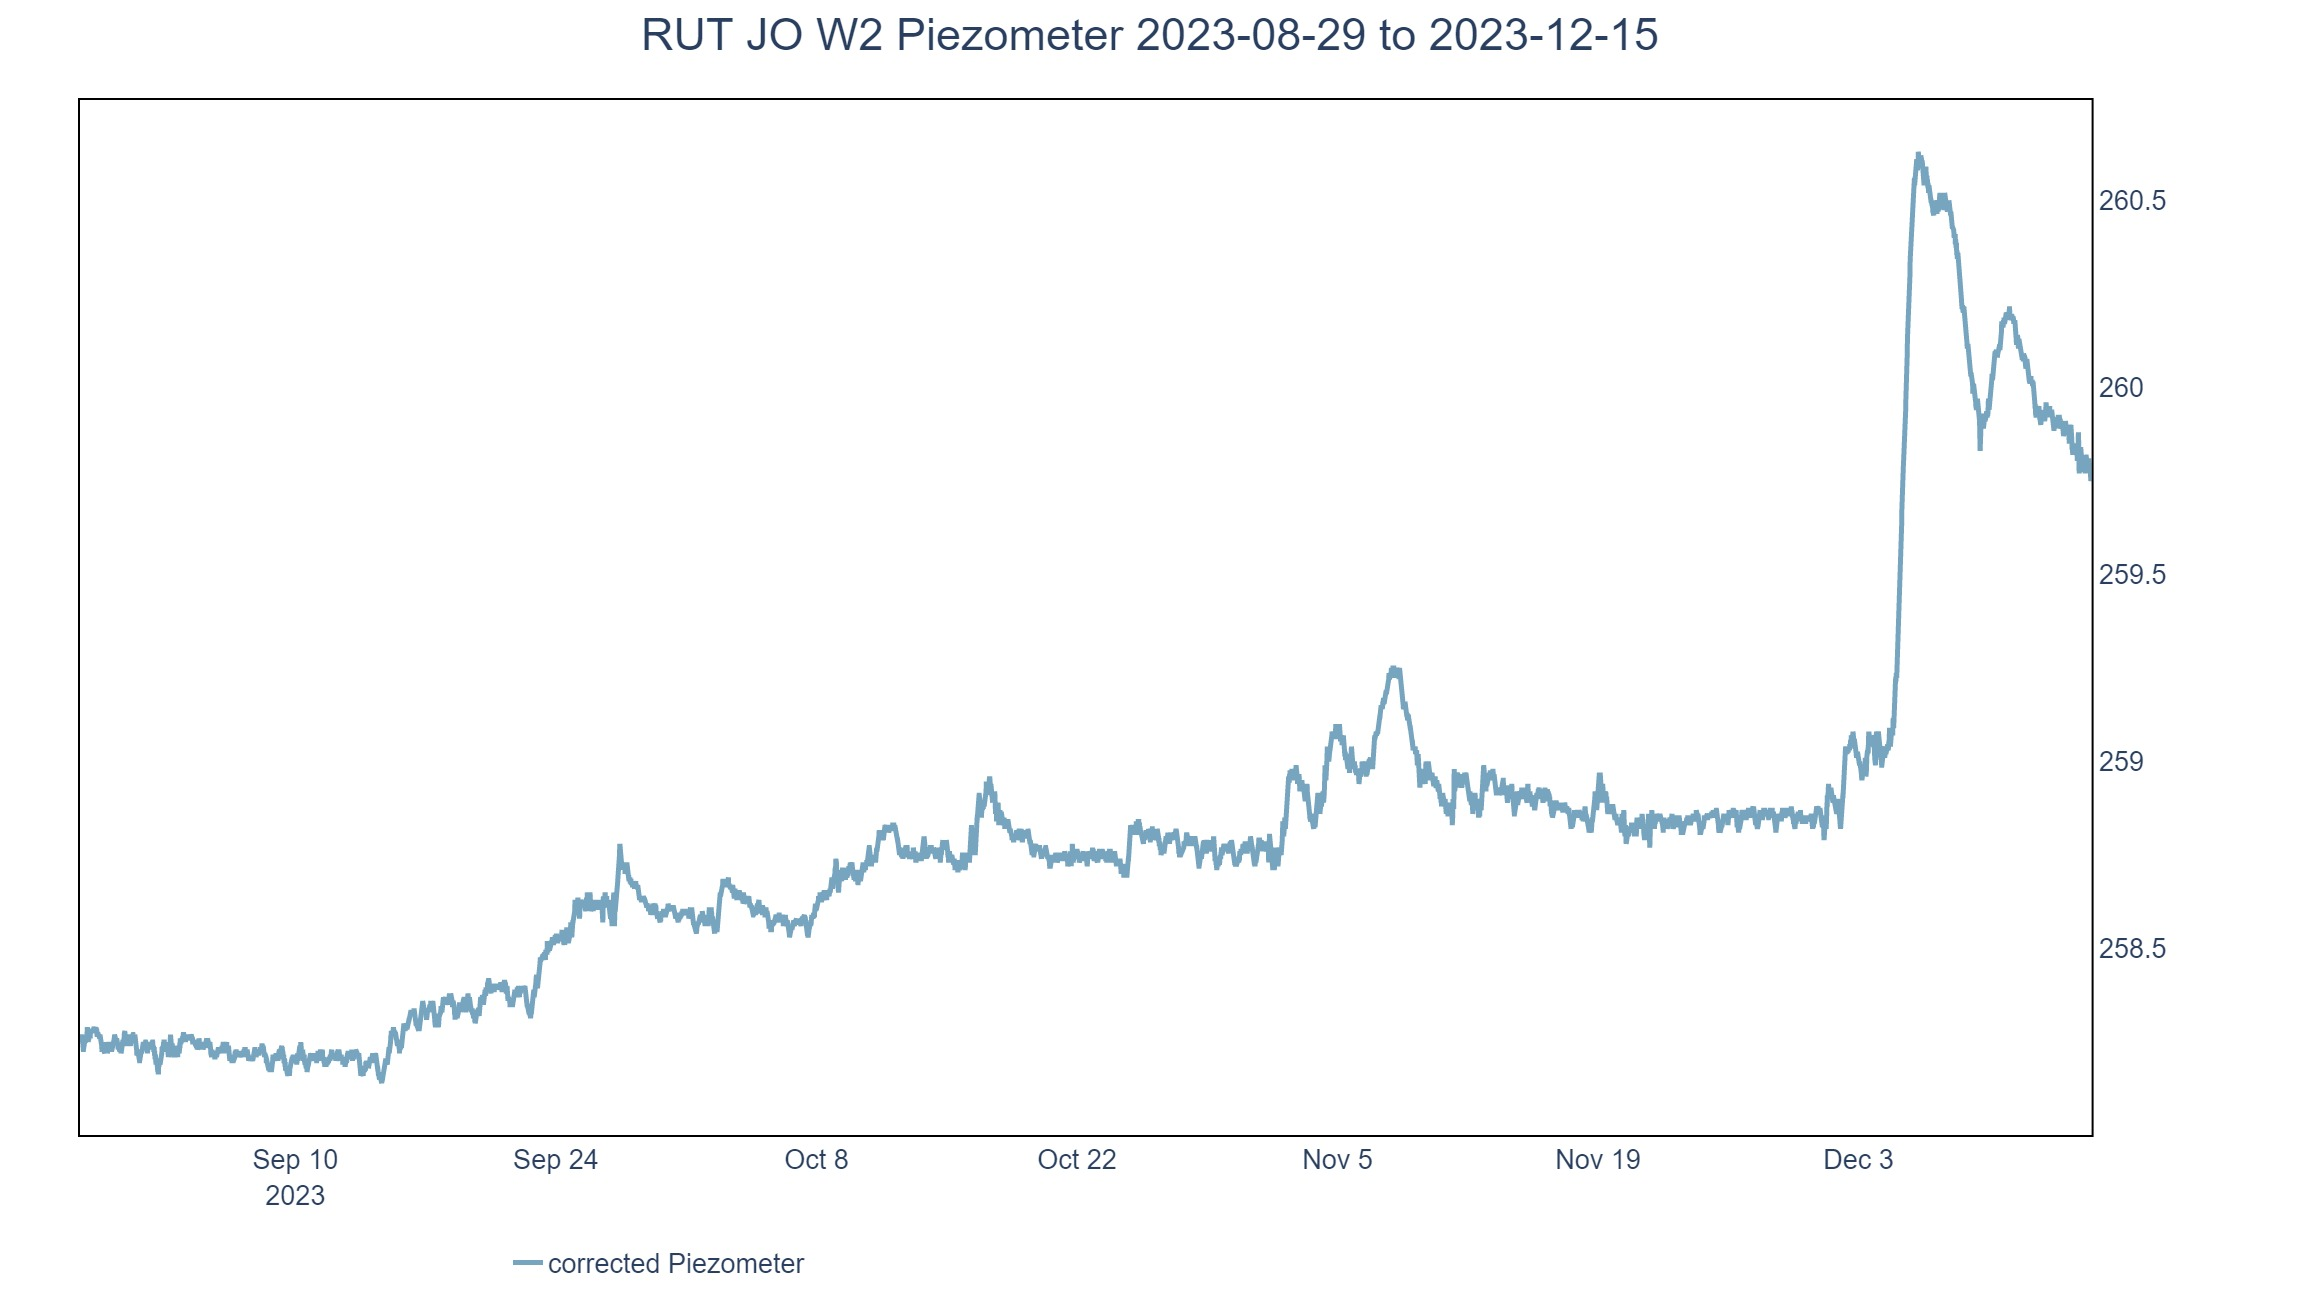
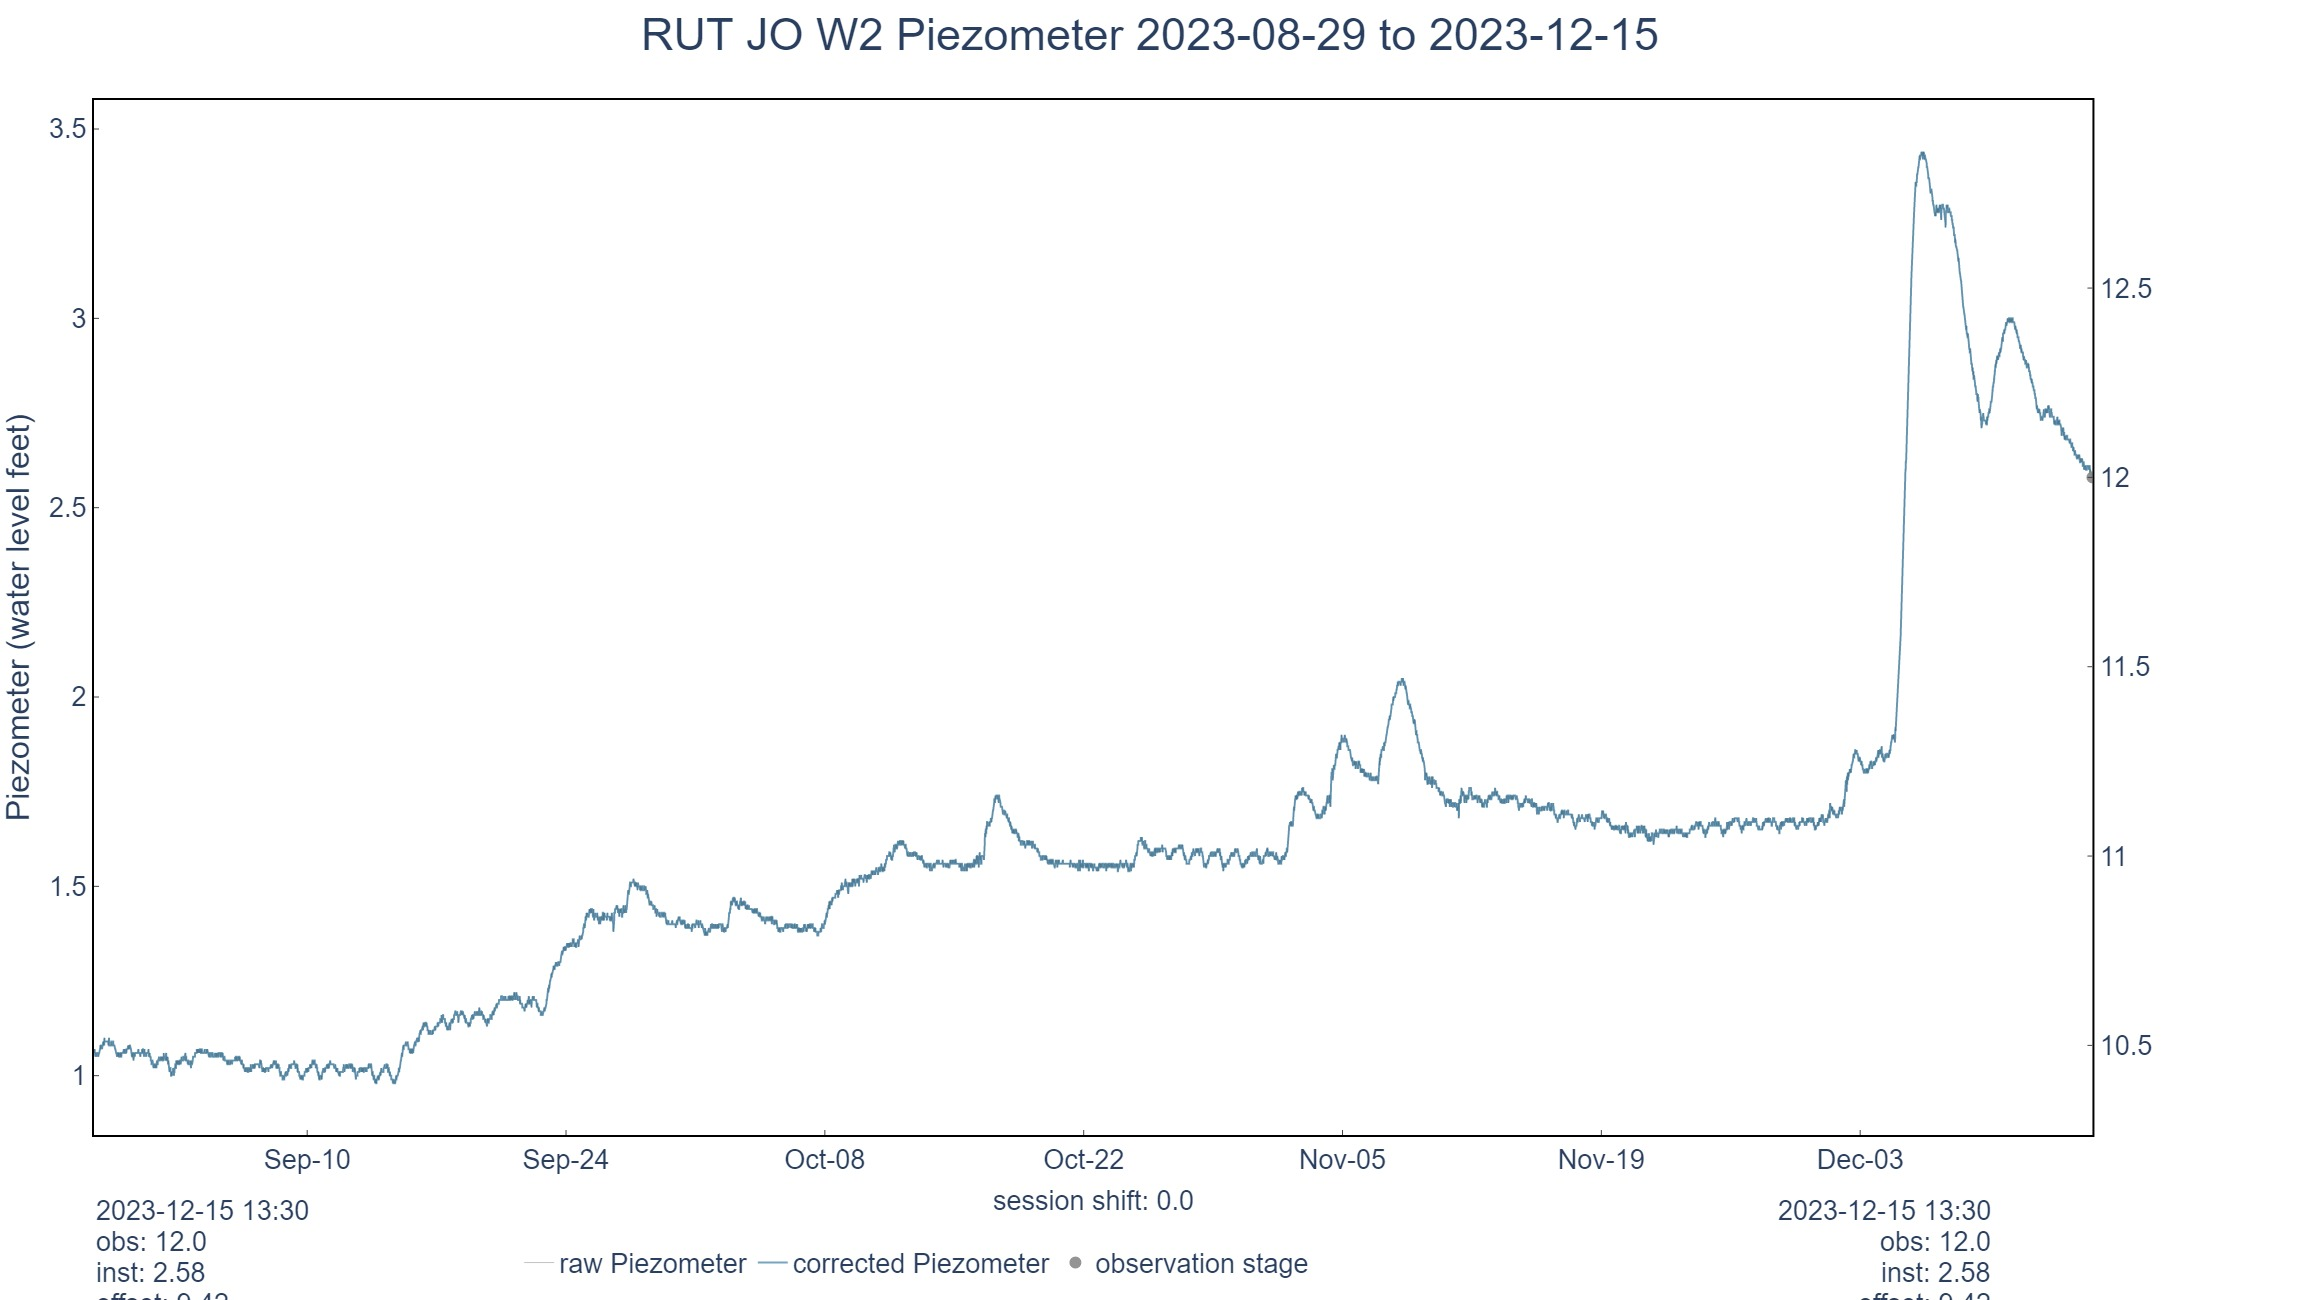
made edits to graph

diff --git a/graph_2.py b/graph_2.py
@@ -139,7 +139,7 @@ def parameter_graph(df, site_code, site_name, parameter, comparison_site, compar
     number_of_rows = 1
     number_of_columns = 1
     title_font_size = 45 # plot title
-    annotation_font_size = 50 # subplot titels are hardcoded as annotations
+    annotation_font_size = 45 # subplot titels are hardcoded as annotations
     show_subplot_titles = False # supblot titles are hardcoded as annotations
     font_size = 27 # axis lables, numbers, offset information
     show_chart_title = True
@@ -152,7 +152,7 @@ def parameter_graph(df, site_code, site_name, parameter, comparison_site, compar
 
    
 
-    figure_autosize = True #True/False
+    figure_autosize = False #True/False
     y_axis_auto_margin  = True #True/False
     horizontal_subplot_spacing = 0.00
     font = "Arial"
@@ -200,11 +200,16 @@ def parameter_graph(df, site_code, site_name, parameter, comparison_site, compar
         #for i in df.index.unique():
        
         #fig.update_yaxes(range=[0,1], row=row_count, col=1, secondary_y=True)
-    fig.update_yaxes(title_text=f"{derived_parameter.replace('_', ' ')} ({config[parameter]['unit']})", row=row_count, col=1, secondary_y=False, )
-    fig.update_yaxes(showticklabels=False, row=row_count, col=1, secondary_y=True)
-    fig.update_xaxes(showgrid=False)
-    fig.update_yaxes(showgrid=False, secondary_y=False)
-    fig.update_yaxes(showgrid=False, secondary_y=True)
+    # primary y axis
+    fig.update_yaxes(showticklabels=True, ticks="inside", showgrid=False, showline=True, linecolor='black', linewidth=2, title_text=f"{derived_parameter.replace('_', ' ')} ({config[parameter]['unit']})", row=row_count, col=1, secondary_y=False, )
+
+    # secondary y axis
+    fig.update_yaxes(showticklabels=True, ticks="inside", showgrid=False, showline=True, linecolor='black', linewidth=2, row=row_count, col=1, secondary_y=True)
+
+
+    fig.update_xaxes(range=[df['datetime'].min(),df['datetime'].max()], showticklabels=True, ticks="inside", tickformat='%b-%d', showgrid=False, showline=True, linecolor='black', linewidth=2, mirror = True)
+
+   
         
     if f"data" in df.columns and data_axis != "none":
         fig.add_trace(go.Scatter(
@@ -242,8 +247,8 @@ def parameter_graph(df, site_code, site_name, parameter, comparison_site, compar
          
     def annotations(obs):
             row_count = 1
-            annotation_x = 0.05 # allows offset for when year is displatyed on axis
-            annotation_y = -.075
+            annotation_x = 0.00 #0.05 # allows offset for when year is displatyed on axis
+            annotation_y = -.085
             
               # annotation 
             obs_df = df.dropna(subset=[f"{obs}"]).copy() # this solves the Try using .loc[row_indexer,col_indexer] = value instead as obs_df is a slice
@@ -256,31 +261,31 @@ def parameter_graph(df, site_code, site_name, parameter, comparison_site, compar
                 fig.add_annotation(text=f"{obs_df['datetime'].iloc[0].strftime('%Y-%m-%d %H:%M')}",
                         xref="x domain", yref="y domain",
                         x=annotation_x, y=annotation_y, showarrow=False, row=row_count, col=1, secondary_y=False,)
-                fig.add_annotation(text=f"obs: {obs_df[f'{obs}'].iloc[0]}",
+                fig.add_annotation(text=f"obs: {obs_df[f'{obs}'].iloc[0]} | inst: {round(obs_df[f'data'].iloc[0], 2)}",
                         xref="x domain", yref="y domain",
                         x=annotation_x, y=annotation_y-.03, showarrow=False, row=row_count, col=1, secondary_y=False,)
-                fig.add_annotation(text=f"inst: {round(obs_df[f'data'].iloc[0], 2)}",
+                fig.add_annotation(text=f"offset: {round(obs_df[f'offset'].iloc[0], 2)}",
                         xref="x domain", yref="y domain",
                         x=annotation_x, y=annotation_y-.06, showarrow=False, row=row_count, col=1, secondary_y=False,)
               
-                fig.add_annotation(text=f"offset: {round(obs_df[f'offset'].iloc[0], 2)}",
-                        xref="x domain", yref="y domain",
-                        x=annotation_x, y=annotation_y-.09, showarrow=False, row=row_count, col=1, secondary_y=False,)
+                #fig.add_annotation(text=f"offset: {round(obs_df[f'offset'].iloc[0], 2)}",
+                #        xref="x domain", yref="y domain",
+                #        x=annotation_x, y=annotation_y-.09, showarrow=False, row=row_count, col=1, secondary_y=False,)
                 # last observation
                 
                 fig.add_annotation(text=f"{obs_df['datetime'].iloc[-1].strftime('%Y-%m-%d %H:%M')}",
                         xref="x domain", yref="y domain",
-                        x=annotation_x+.95, y=annotation_y, showarrow=False, row=row_count, col=1, secondary_y=False,)
-                fig.add_annotation(text=f"obs: {obs_df[f'{obs}'].iloc[-1]}",
+                        x=annotation_x+1, y=annotation_y, showarrow=False, row=row_count, col=1, secondary_y=False,) #0.95
+                fig.add_annotation(text=f"obs: {obs_df[f'{obs}'].iloc[-1]} | inst: {round(obs_df[f'data'].iloc[-1], 2)}",
                         xref="x domain", yref="y domain",
-                        x=annotation_x+.95, y=annotation_y-.03, showarrow=False, row=row_count, col=1, secondary_y=False,)
-                fig.add_annotation(text=f"inst: {round(obs_df[f'data'].iloc[-1], 2)}",
-                        xref="x domain", yref="y domain",
-                        x=annotation_x+.95, y=annotation_y-.06, showarrow=False, row=row_count, col=1, secondary_y=False,)
-                
+                        x=annotation_x+1, y=annotation_y-.03, showarrow=False, row=row_count, col=1, secondary_y=False,)
                 fig.add_annotation(text=f"offset: {round(obs_df[f'offset'].iloc[-1], 2)}",
                         xref="x domain", yref="y domain",
-                        x=annotation_x+.95, y=annotation_y-.09, showarrow=False, row=row_count, col=1, secondary_y=False,)
+                        x=annotation_x+1, y=annotation_y-.06, showarrow=False, row=row_count, col=1, secondary_y=False,)
+                
+                #fig.add_annotation(text=f"offset: {round(obs_df[f'offset'].iloc[-1], 2)}",
+                #        xref="x domain", yref="y domain",
+                #        x=annotation_x+1, y=annotation_y-.09, showarrow=False, row=row_count, col=1, secondary_y=False,)
                     
                     # shift
                 #if observation_axis != "none":
@@ -393,24 +398,9 @@ def parameter_graph(df, site_code, site_name, parameter, comparison_site, compar
 
 def cache_graph_export(df, site_code, site_name, parameter, comparison_site, comparison_parameter, data_axis, corrected_data_axis, derived_data_axis, observation_axis, comparison_axis):
     fig = parameter_graph(df, site_code, site_name, parameter, comparison_site, comparison_parameter, data_axis, corrected_data_axis, derived_data_axis, observation_axis, comparison_axis)
-    #if "field_observations" in df.columns:
-        #annotations()
-    paper_width = 2300
-    paper_height = 1300
-
-    # Update layout with fixed dimensions
-    #fig.update_layout(autosize=True, width=paper_width, height = paper_height)
-
-    # Use write_image to export the figure with fixed dimensions
-    image_path = f"images/{site_name}_{parameter}_graph.jpeg"
-    pio.write_image(fig, image_path, width=paper_width, height = paper_height)
-    # update for display
-    figure_height = 1000
-    figure_height = '100%'
-#      figure width of 600 was originally used
+   
     
-    
-    figure_width = 2300
+   
     fig.update_layout(autosize=True, height = 1000)
     return html.Div(dcc.Graph(figure = fig), style = {'width': '100%', 'height': '100%'})
 
@@ -426,6 +416,7 @@ def save_fig(df, site, site_sql_id, parameter, comparison_site, comparison_param
     paper_width = 2300
     paper_height = 1300
     fig.update_layout(autosize=True, width=paper_width, height = paper_height)
+    #fig.update_layout(autosize=True, width=paper_width, height = paper_height)
     file_path = r"W:\STS\hydro\GAUGE\Temp\Ian's Temp\{0}_{1}_{2}.pdf".format(site, parameter, end_date)
 
     # Use plotly.io.write_image to export the figure as a PDF

diff --git a/data_cleaning.py b/data_cleaning.py
@@ -40,6 +40,9 @@ def fill_timeseries(data, data_interval):
 
     # Reset the index if needed
     data.reset_index(inplace=True)
+ 
+    if "estimate" not in data.columns:
+        data["estimate"] = "0"
     print(data)
     
     def f(x):
